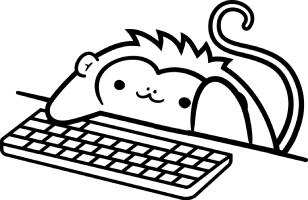
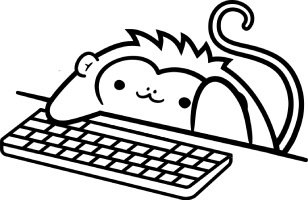
monkey saving to config, monkey going more insane when typing faaaaast

Changed region(s): [[0.3214, 0.54, 0.6429, 0.69], [0.1169, 0.54, 0.1461, 0.57]]

diff --git a/src/js/monkey.js b/src/js/monkey.js
@@ -1,3 +1,5 @@
+import { mapRange } from "./misc";
+
 let left = false;
 let right = false;
 let elements = {
@@ -5,6 +7,12 @@ let elements = {
   10: document.querySelector("#monkey .left"),
   "01": document.querySelector("#monkey .right"),
   11: document.querySelector("#monkey .both"),
+};
+let elementsFast = {
+  "00": document.querySelector("#monkey .fast .up"),
+  10: document.querySelector("#monkey .fast .left"),
+  "01": document.querySelector("#monkey .fast .right"),
+  11: document.querySelector("#monkey .fast .both"),
 };
 let last = "right";
 // 0 up
@@ -15,12 +23,25 @@ function update() {
     Object.keys(elements).forEach((key) => {
       elements[key].classList.add("hidden");
     });
+    Object.keys(elementsFast).forEach((key) => {
+      elementsFast[key].classList.add("hidden");
+    });
 
     let id = left ? "1" : "0";
     id += right ? "1" : "0";
 
     elements[id].classList.remove("hidden");
+    elementsFast[id].classList.remove("hidden");
   }
+}
+
+export function updateFastOpacity(num) {
+  let opacity = mapRange(num, 100, 200, 0, 1);
+  $("#monkey .fast").animate({ opacity: opacity }, 1000);
+  let animDuration = mapRange(num, 100, 200, 0.5, 0.01);
+  if (animDuration == 0.5) animDuration = 0;
+  console.log(num + " > " + animDuration);
+  $("#monkey").css({ animationDuration: animDuration + "s" });
 }
 
 export function type() {
@@ -42,4 +63,3 @@ export function stop() {
   }
   update();
 }
-

diff --git a/src/js/userconfig.js b/src/js/userconfig.js
@@ -74,6 +74,7 @@ let defaultConfig = {
   minAcc: "off",
   minAccCustom: 90,
   showLiveAcc: false,
+  monkey: false,
 };
 
 let cookieConfig = null;
@@ -1272,6 +1273,29 @@ function setLanguage(language, nosave) {
   if (!nosave) saveConfigToCookie();
 }
 
+function toggleMonkey(nosave) {
+  config.monkey = !config.monkey;
+  if (config.monkey) {
+    $("#monkey").removeClass("hidden");
+  } else {
+    $("#monkey").addClass("hidden");
+  }
+  if (!nosave) saveConfigToCookie();
+}
+
+function setMonkey(monkey, nosave) {
+  if (monkey === null || monkey === undefined) {
+    monkey = false;
+  }
+  config.monkey = monkey;
+  if (config.monkey) {
+    $("#monkey").removeClass("hidden");
+  } else {
+    $("#monkey").addClass("hidden");
+  }
+  if (!nosave) saveConfigToCookie();
+}
+
 function setCapsLockBackspace(capsLockBackspace, nosave) {
   if (capsLockBackspace === null || capsLockBackspace === undefined) {
     capsLockBackspace = false;
@@ -1550,6 +1574,7 @@ function applyConfig(configObj) {
     setStartGraphsAtZero(configObj.startGraphsAtZero, true);
     setStrictSpace(configObj.strictSpace, true);
     setMode(configObj.mode, true);
+    setMonkey(configObj.monkey, true);
 
     try {
       setEnableAds(configObj.enableAds, true);

diff --git a/src/sass/style.scss b/src/sass/style.scss
@@ -3386,6 +3386,9 @@ key {
   width: 308px;
   height: 0;
   margin: 0 auto;
+  animation: shake;
+  animation-duration: 0s;
+  animation-iteration-count: infinite;
   div {
     height: 200px;
     width: 308px;
@@ -3402,6 +3405,32 @@ key {
   }
   .both {
     background-image: url("../m4.png");
+  }
+  .fast {
+    .up {
+      background-image: url("../m3_fast.png");
+    }
+    .left {
+      background-image: url("../m1_fast.png");
+    }
+    .right {
+      background-image: url("../m2_fast.png");
+    }
+    .both {
+      background-image: url("../m4_fast.png");
+    }
+  }
+}
+
+@keyframes shake {
+  0% {
+    transform: translate(4px, 0) rotate(0deg);
+  }
+  50% {
+    transform: translate(-4px, 0) rotate(0deg);
+  }
+  100% {
+    transform: translate(4px, 0) rotate(0deg);
   }
 }
 

diff --git a/src/js/script.js b/src/js/script.js
@@ -2828,6 +2828,7 @@ function startTest() {
       updateLiveWpm(wpmAndRaw.wpm, wpmAndRaw.raw);
       wpmHistory.push(wpmAndRaw.wpm);
       rawHistory.push(wpmAndRaw.raw);
+      Monkey.updateFastOpacity(wpmAndRaw.wpm);
 
       let acc = Misc.roundTo2(
         (accuracyStats.correct /
@@ -3024,6 +3025,8 @@ function restartTest(withSameWordset = false, nosave = false) {
     },
     125,
     async () => {
+      $("#monkey .fast").stop(true, true).css("opacity", 0);
+      $("#monkey").stop(true, true).css({ animationDuration: "0s" });
       $("#typingTest").css("opacity", 0).removeClass("hidden");
       if (!withSameWordset) {
         sameWordset = false;

diff --git a/src/js/misc.js b/src/js/misc.js
@@ -575,3 +575,22 @@ export function isUsernameValid(name) {
   if (/^\..*/.test(name.toLowerCase())) return false;
   return /^[0-9a-zA-Z_.-]+$/.test(name);
 }
+
+export function mapRange(x, in_min, in_max, out_min, out_max) {
+  let num = ((x - in_min) * (out_max - out_min)) / (in_max - in_min) + out_min;
+
+  if (out_min > out_max) {
+    if (num > out_min) {
+      num = out_min;
+    } else if (num < out_max) {
+      num = out_max;
+    }
+  } else {
+    if (num < out_min) {
+      num = out_min;
+    } else if (num > out_max) {
+      num = out_max;
+    }
+  }
+  return num;
+}

diff --git a/static/index.html b/static/index.html
@@ -1229,6 +1229,12 @@
                 <div class="left hidden"></div>
                 <div class="right hidden"></div>
                 <div class="both hidden"></div>
+                <div class="fast">
+                  <div class="up"></div>
+                  <div class="left hidden"></div>
+                  <div class="right hidden"></div>
+                  <div class="both hidden"></div>
+                </div>
               </div>
               <div id="premidTestMode" class="hidden"></div>
               <div id="premidSecondsLeft" class="hidden"></div>

diff --git a/src/js/commandline.js b/src/js/commandline.js
@@ -696,7 +696,7 @@ let commands = {
       display: "Toggle Monkey",
       visible: false,
       exec: () => {
-        $("#monkey").toggleClass("hidden");
+        toggleMonkey();
       },
     },
   ],
